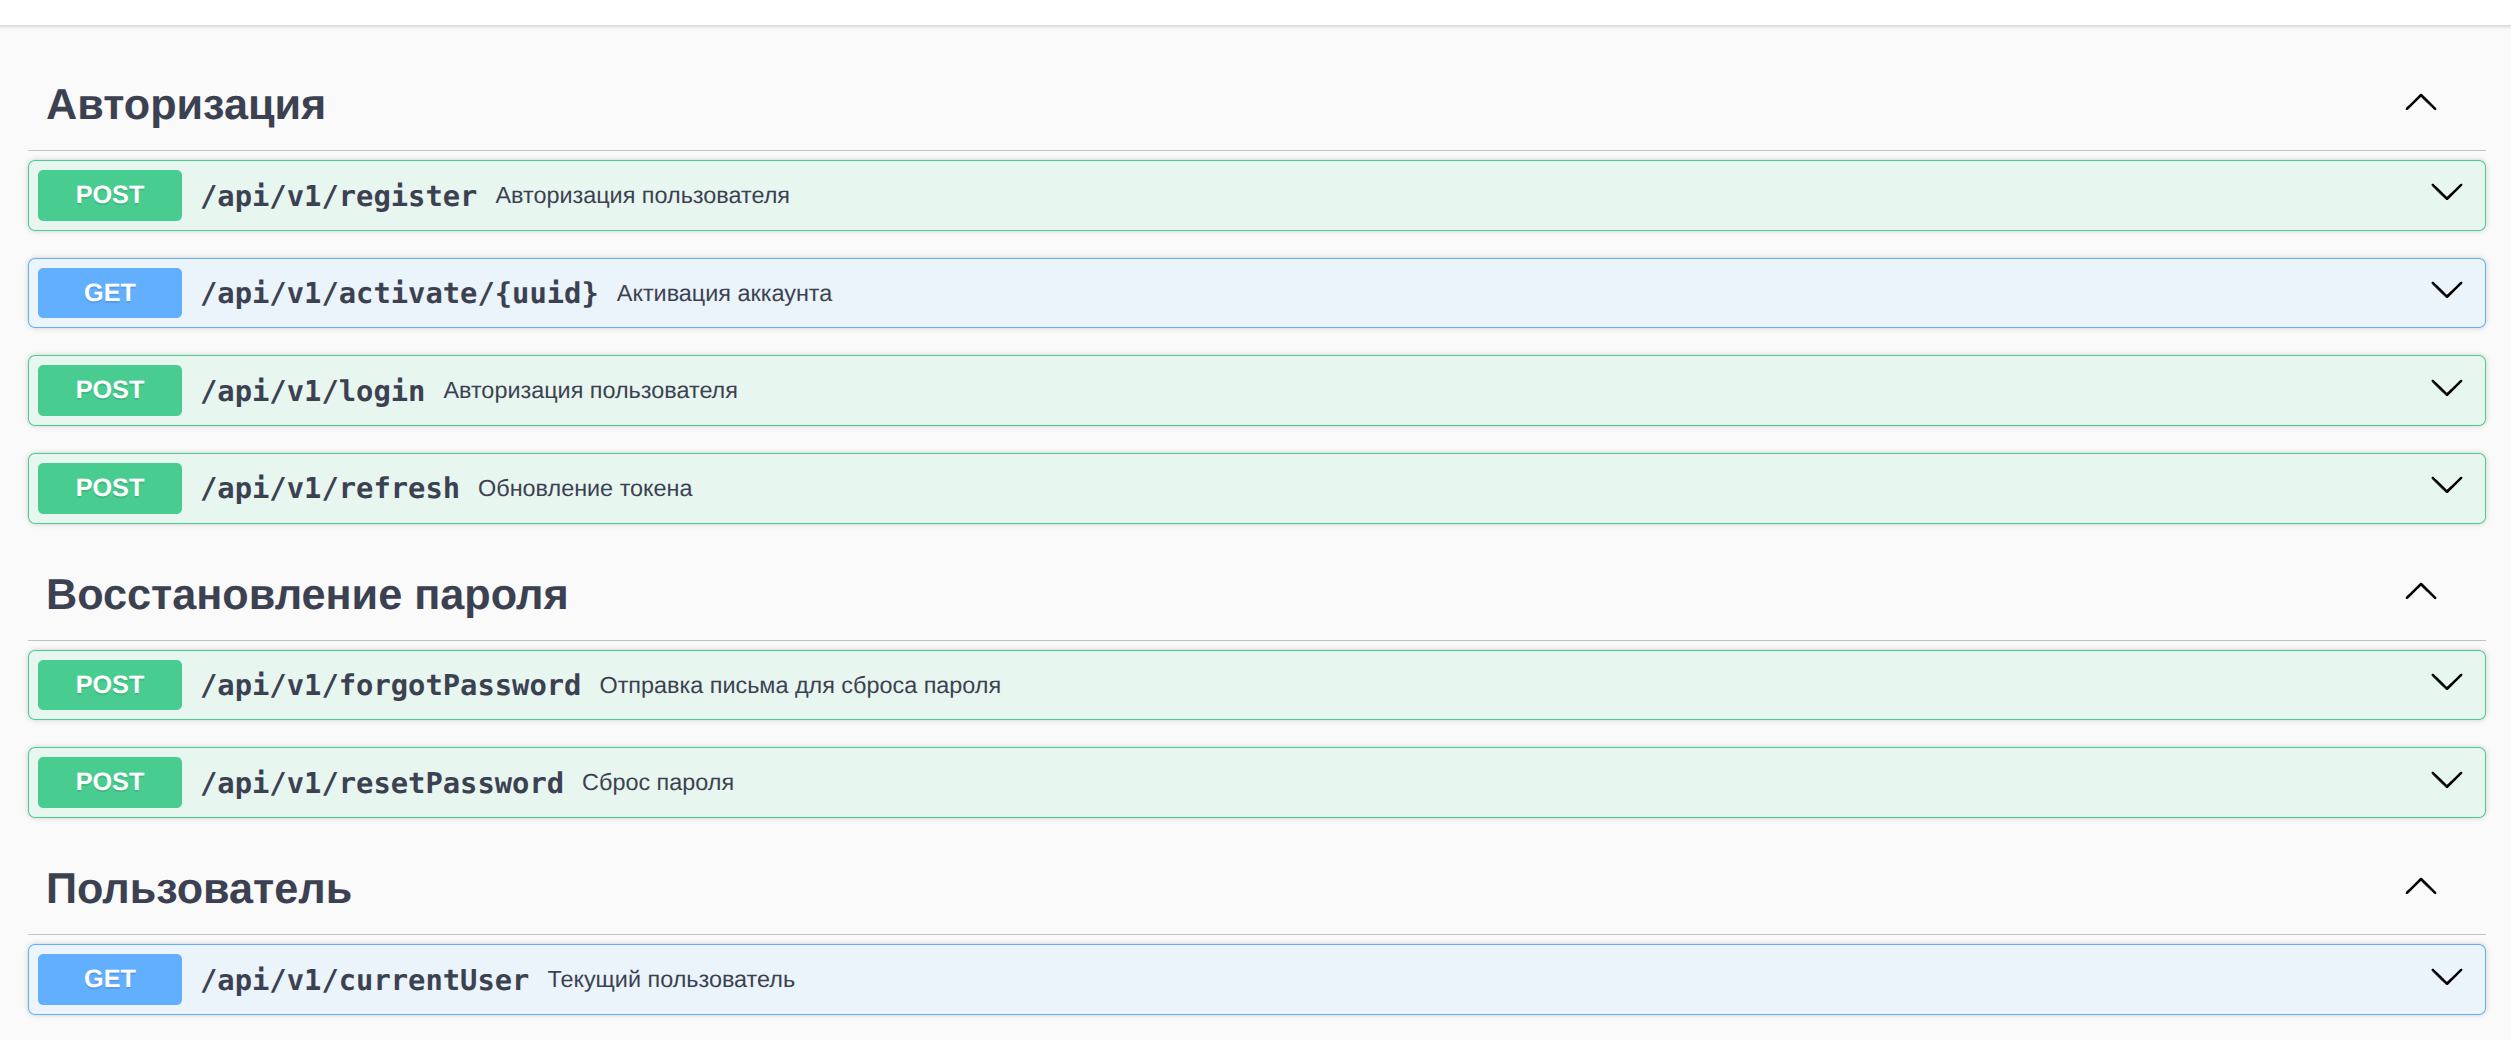
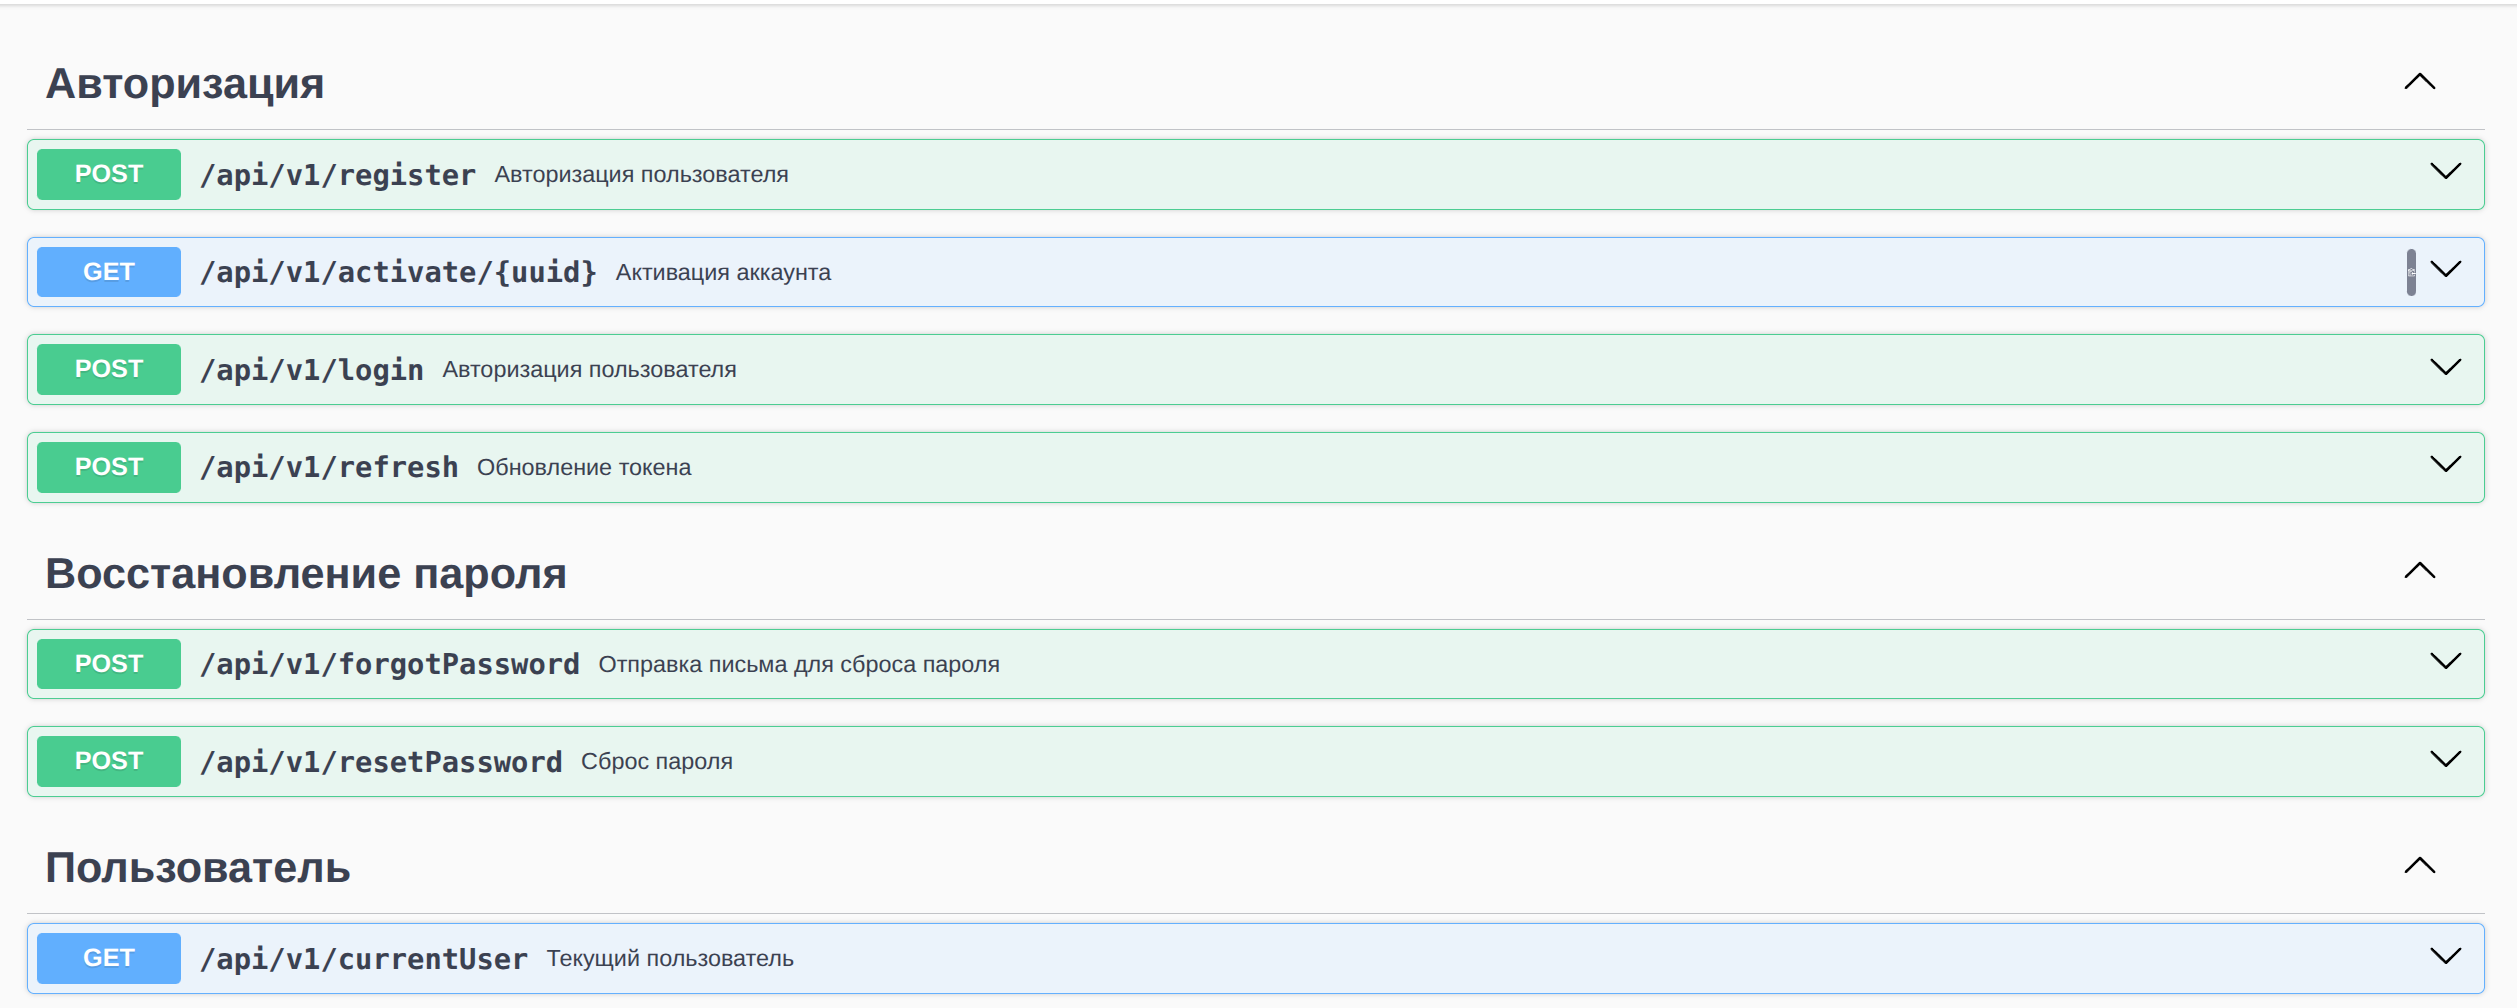
добавил swagger описание

diff --git a/README.md b/README.md
@@ -22,3 +22,10 @@ make build-dev
 ```bash
 make build
 ```
+
+### 3. После запуска проекта Swagger документация доступна по следующим эндпоинтам:
+
+Swagger UI: /swagger
+Swagger JSON: /swagger/json
+
+![alt text](image.png)
